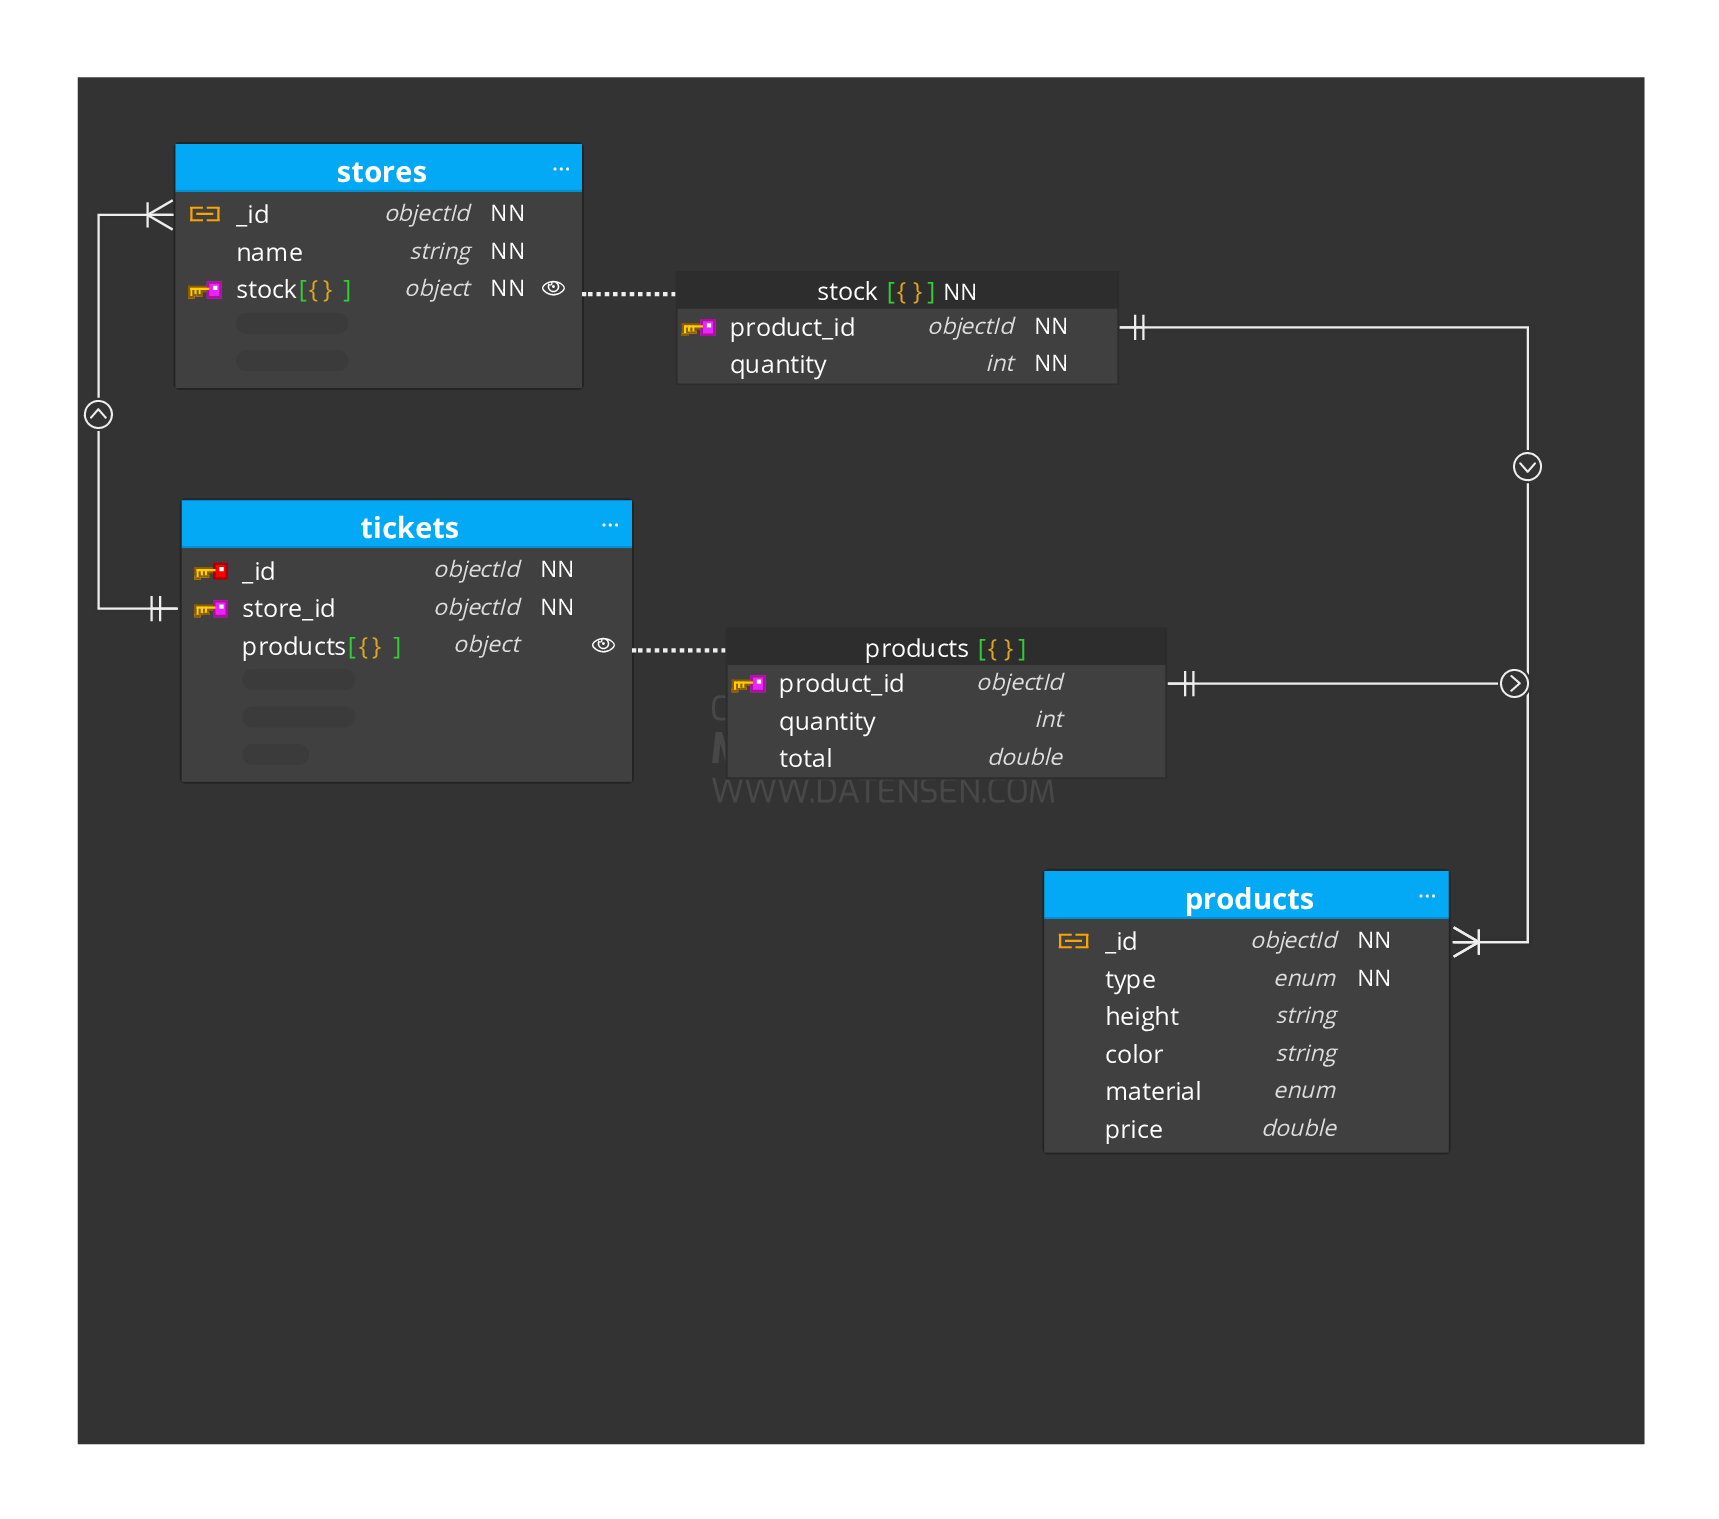
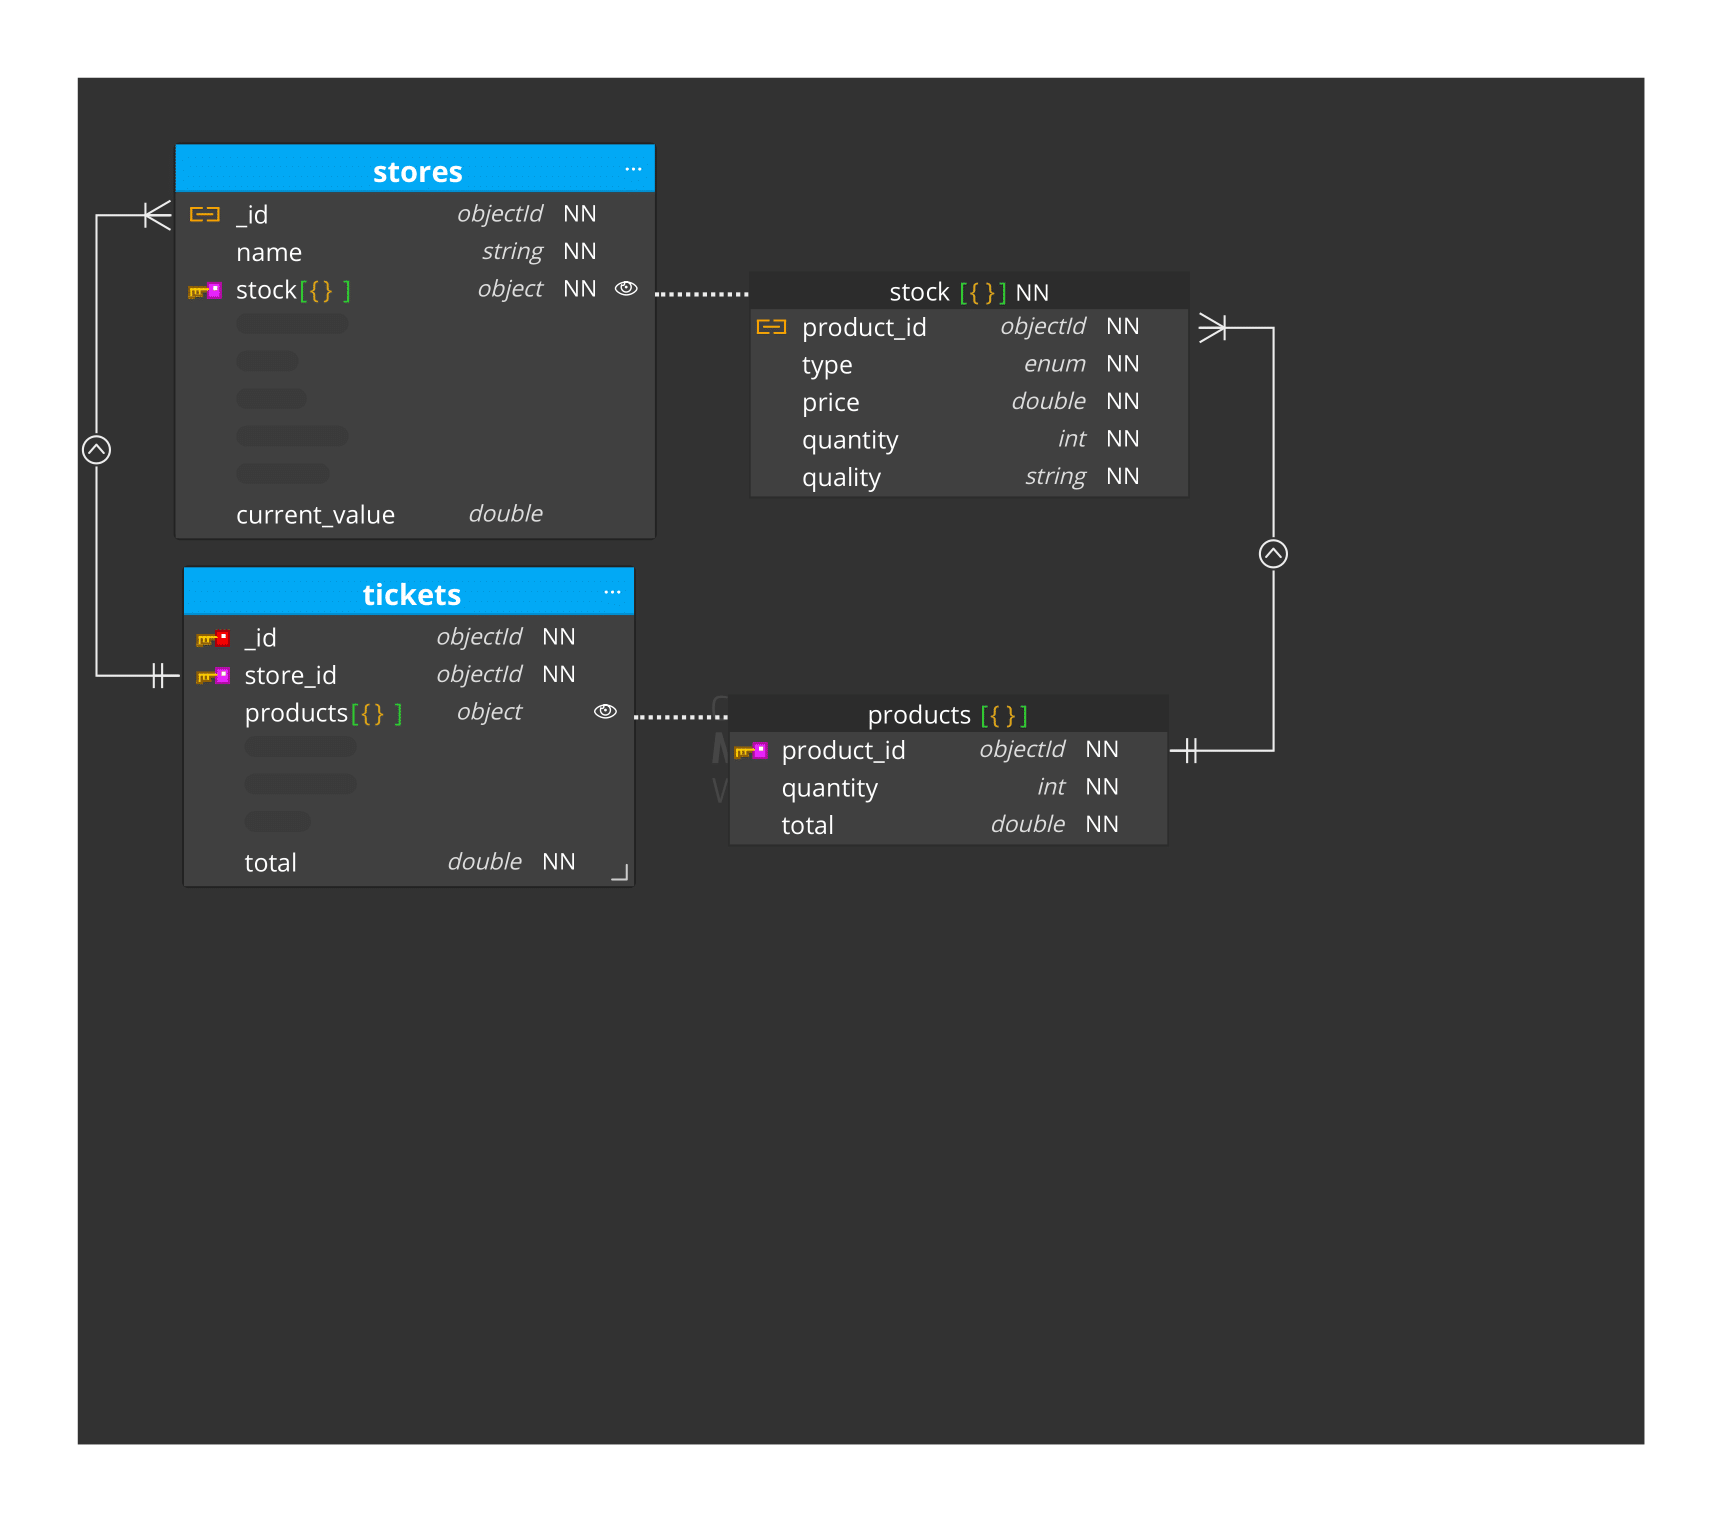
Work done at home on the 21/03/2024, from 14-00-00:00h.

diff --git a/src/main/java/Generic/classes/Stock.java b/src/main/java/Generic/classes/Stock.java
@@ -2,17 +2,32 @@ package Generic.classes;
 
 public class Stock {
     private final String product_id;
+    private final Types type;
+    private double price;
     private int quantity;
-    private double total;
+    private final String quality;
 
-    public Stock (String product_id, int quantity, double total){
+
+    public Stock (String product_id, Types type, double price, int quantity, String quality){
         this.product_id = product_id;
+        this.type = type;
+        this.price = price;
         this.quantity = quantity;
-        this.total = total;
+        this.quality = quality;
     }
 
     public void setQuantity(int quantity) {
 //        Setup how to get the price from product_id and multiply by current quantity to set the total.
         this.quantity = quantity;
+    }
+
+    @Override
+    public String toString() {
+        return "\n- Product_id: " + this.product_id
+                + "\n\nType: " + this.type.name()
+                + "\n\nPrice: " + this.price + "€"
+                + "\n\nQuantity: " + this.quantity
+//                Remember to code it, so it follows the structure when it's being made lmao
+                + "\n\n" + this.quality;
     }
 }

diff --git a/src/main/java/Generic/classes/Tickets.java b/src/main/java/Generic/classes/Tickets.java
@@ -1,4 +1,33 @@
 package Generic.classes;
 
+import java.util.List;
+
 public class Tickets {
+    private final String _id;
+    private final String store_id;
+    private final List<Products> productsList;
+    private final double total;
+
+    public Tickets(String _id, String store_id, List<Products> productsList, double total){
+        this._id = _id;
+        this.store_id = store_id;
+        this.productsList = productsList;
+        this.total = total;
+    }
+
+    public String getProductsList(){
+        String textToReturn = "";
+        for (Products product : productsList){
+            textToReturn = textToReturn.concat("\t\tName: " + "\tQuantity: " + "\tPrice: ");
+        }
+//        Implement code to get the product's name, and price and place it on a string to send back
+        return textToReturn;
+    }
+    @Override
+    public String toString() {
+        return "Ticket " + _id
+                + "\n\tStore ID: " + this.store_id
+                + "\n\tProducts bought: " + getProductsList()
+                + "\n\tTotal: " + this.total + "€";
+    }
 }

diff --git a/src/main/java/Mongo/Connectivity/MongoDAO.java b/src/main/java/Mongo/Connectivity/MongoDAO.java
@@ -12,11 +12,12 @@ import com.mongodb.client.MongoDatabase;
 
 import java.util.List;
 
-public class MongoDAO implements DAO {
+public enum MongoDAO implements DAO {
+    INSTANCE;
     private final MongoClient mongoClient;
     private final MongoDatabase mongoDatabase;
 
-    public MongoDAO(){
+    MongoDAO(){
         ConnectionString connectionString = new ConnectionString("mongodb://"
                 + MongoConfig.USER + ":"
                 + MongoConfig.PASSWORD + "@"
@@ -30,7 +31,6 @@ public class MongoDAO implements DAO {
         this.mongoClient = MongoClients.create(mongoClientSettings);
         this.mongoDatabase = this.mongoClient.getDatabase("gardenShop");
     }
-
 
 //    Create methods implemented
     @Override

diff --git a/src/main/java/Generic/classes/GardenShop.java b/src/main/java/Generic/classes/GardenShop.java
@@ -14,9 +14,24 @@ public class GardenShop {
         this.name = name;
     }
 
+//    Getters
+//    Setters
+
+    private String getStock(){
+        String textToReturn = this.name + "'s stock:";
+        if (this.stockList.isEmpty()){
+            return textToReturn = textToReturn.concat("\n\t- Empty.");
+        }
+
+        for (Stock stock : stockList){
+            textToReturn = textToReturn.concat(stock.toString());
+        }
+
+        return textToReturn;
+    }
     @Override
     public String toString() {
-        return "\n- Store_id: " + this._id
-                + "\n - Name: " + this.name ;
+        return "\n\t- Store_id: " + this._id
+                + "\n\t\t- Name: " + this.name;
     }
 }

diff --git a/src/main/java/Generic/classes/Products.java b/src/main/java/Generic/classes/Products.java
@@ -1,4 +1,11 @@
 package Generic.classes;
 
 public class Products {
+    private String name;
+    private int quantity;
+    private int price;
+
+    public Products(String product_id){
+//        Make code to get stock item and fill the variables
+    }
 }

diff --git a/src/main/java/Generic/classes/Types.java b/src/main/java/Generic/classes/Types.java
@@ -1,0 +1,7 @@
+package Generic.classes;
+
+public enum Types {
+    TREE,
+    FLOWER,
+    DECORATION;
+}
